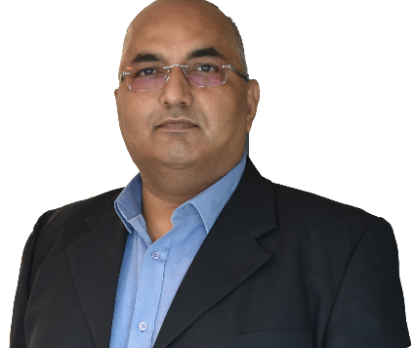
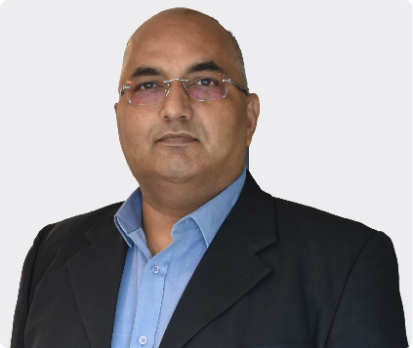
"abhineet changes"

Changed region(s): [[0.0, 0.0, 1.0, 1.0], [0.0581, 0.9483, 0.0872, 1.0]]

diff --git a/src/pages/operations/operations.tsx b/src/pages/operations/operations.tsx
@@ -31,6 +31,15 @@ const Operations = () => {
         });
       $(".readMore-para").hide();
     }
+
+    var hideMore = $('<div class="text-start seeMore mb-4">Read More</div>');
+    $(".hide-text").children().nextAll("p").hide();
+    hideMore.click(function () {
+      $(this).prev().children().nextAll("p").toggle();
+      $(this).html() == "Read More" ? $(this).html("Read Less") : $(this).html("Read More");
+    });
+    $(".hide-text").after(hideMore);
+
     //to hide more text in mobile view
     if (window.innerWidth <= 768) {
       var readMore = $('<div class="text-start wwr-read-more text-decoration-underline mb-4">Read More</div>');
@@ -73,18 +82,16 @@ const Operations = () => {
               <h3 className="d-md-block d-none">
                 <strong>Operations at KCL</strong>
               </h3>
-              <p className="my-4 operations-text">
-                Copper smelting is a metallurgical process that transforms copper concentrates into refined metal. KCL has adopted flash smelting and pierce smith converting technology wherein the copper concentrates are converted into molten anodes. The molten copper is then tapped and cast into shapes like ingots or billets.
-                <br />
-                <br />
-                Refining follows smelting to enhance copper purity. In electrolytic refining, copper is dissolved from impure copper anodes and then electroplated onto pure cathodes. This process yields high-grade copper with minimal impurities.
-              </p>
+              <div className="hide-text">
+                <p className="my-4">Copper smelting is a metallurgical process that transforms copper concentrates into refined metal. KCL has adopted flash smelting and pierce smith converting technology wherein the copper concentrates are converted into molten anodes. The molten copper is then tapped and cast into shapes like ingots or billets.</p>
+                <p>Refining follows smelting to enhance copper purity. In electrolytic refining, copper is dissolved from impure copper anodes and then electroplated onto pure cathodes. This process yields high-grade copper with minimal impurities.</p>
+              </div>
             </div>
             <div className="col-md-4 order-md-2 order-1">
               <h3 className="d-md-none d-block">
                 <strong>Operations at KCL</strong>
               </h3>
-              <img className="rounded w-100 my-4" src={operations} alt="" />
+              <img className="rounded w-100 my-md-0 my-4" src={operations} alt="" />
             </div>
           </div>
 
@@ -110,8 +117,8 @@ const Operations = () => {
                     <div className="col-md-9 ps-md-5">
                       <div className="readMore-para">
                         <p>The copper concentrates are fed through the flash smelting furnace with oxygen-enriched air. In the furnace, the concentrates are instantly oxidized, after which they melt and separate by their own reaction heat into copper matte with a grade of 60-65% and slag consisting of iron oxide, silica, and other compounds.</p>
-                        <p>Reaction in the flash smelting furnace</p>
-                        <h6>CuFeS2 + SiO2 + O2 → Cu2S・FeS + 2FeO・SiO2 + SO2 + Reaction heat</h6>
+                        {/* <p>Reaction in the flash smelting furnace</p>
+                        <h6>CuFeS2 + SiO2 + O2 → Cu2S・FeS + 2FeO・SiO2 + SO2 + Reaction heat</h6> */}
                       </div>
                     </div>
                   </div>
@@ -140,8 +147,8 @@ const Operations = () => {
                     <div className="col-md-9 ps-md-5">
                       <div className="readMore-para">
                         <p>The matte produced by the flash smelting furnace is transferred to the converter furnace. Oxygen-enriched air is blown into the converter furnace to further oxidize the matte, creating blister copper with a grade of approximately 98-99%.</p>
-                        <p>Reaction in the flash smelting furnace</p>
-                        <h6>Cu2S・FeS + SiO2 + O2 → Cu + 2FeO・SiO2 + SO2 + Reaction heat</h6>
+                        {/* <p>Reaction in the flash smelting furnace</p>
+                        <h6>Cu2S・FeS + SiO2 + O2 → Cu + 2FeO・SiO2 + SO2 + Reaction heat</h6> */}
                       </div>
                     </div>
                   </div>
@@ -182,7 +189,6 @@ const Operations = () => {
               </div>
             </div>
 
-
             <div className="accordion-item">
               <h2 className="accordion-header" id="flush-heading-5">
                 <button className="accordion-button collapsed" type="button" data-bs-toggle="collapse" data-bs-target="#flush-collapse-5" aria-expanded="false" aria-controls="flush-collapse-5">
@@ -217,7 +223,7 @@ const Operations = () => {
                   <div className="circle">
                     <h4>05</h4>
                   </div>
-                  <h5>Continuous catalyst regeneration (CCR)</h5>
+                  <h5>Continuous Cast Rod (CCR)</h5>
                 </button>
               </h2>
               <div id="flush-collapse-6" className="accordion-collapse collapse" aria-labelledby="flush-heading-6" data-bs-parent="#accordionFlushExample">
@@ -245,7 +251,7 @@ const Operations = () => {
                   <div className="circle">
                     <h4>06</h4>
                   </div>
-                  <h5>Sulfuric Acid plant</h5>
+                  <h5>Sulphuric Acid plant</h5>
                 </button>
               </h2>
               <div id="flush-collapse-7" className="accordion-collapse collapse" aria-labelledby="flush-heading-7" data-bs-parent="#accordionFlushExample">
@@ -273,7 +279,7 @@ const Operations = () => {
                   <div className="circle">
                     <h4>07</h4>
                   </div>
-                  <h5>Slime treatment plant</h5>
+                  <h5>Precious Metals Recovery</h5>
                 </button>
               </h2>
               <div id="flush-collapse-8" className="accordion-collapse collapse" aria-labelledby="flush-heading-8" data-bs-parent="#accordionFlushExample">

diff --git a/src/pages/whoweare/whoweare.tsx b/src/pages/whoweare/whoweare.tsx
@@ -6,7 +6,7 @@ import mission from "../../assets/images/Bitmap.png";
 import vision from "../../assets/images/Mask group.png";
 import values from "../../assets/images/Mask group-1.png";
 import graybox from "../../assets/images/ceoImage.png";
-import ceoImage from "../../assets/images/ceoImage.png";
+import ceoImage from "../../assets/images/ceo-white.png";
 
 import vinay from "../../assets/images/vinay.png";
 import jeet from "../../assets/images/jeet.png";
@@ -38,7 +38,7 @@ const Whoweare = () => {
       $(".wwr-list").after(readMore);
     }
 
-    if (true) {
+    if (window.innerWidth <= 786) {
       $(".readMore-para")
         .find("p:first")
         .each(function (index, element) {
@@ -54,6 +54,13 @@ const Whoweare = () => {
         });
       $(".readMore-para").hide();
     }
+    var hideMore = $('<div class="text-start seeMore mb-4">Read More</div>');
+    $(".hide-text").children().nextAll("p").hide();
+    hideMore.click(function () {
+      $(this).prev().children().nextAll("p").toggle();
+      $(this).html() == "Read More" ? $(this).html("Read Less") : $(this).html("Read More");
+    });
+    $(".hide-text").after(hideMore);
   }, []);
 
   return (
@@ -63,8 +70,10 @@ const Whoweare = () => {
         <div className="aboutKCL-section d-flex align-items-center justify-content-center">
           <div className="container ">
             <h2 className="all-headings">About KCL</h2>
+            <div className="hide-text">
             <p className="all-paragraphs">As a part of the diversified Adani Group, Kutch Copper Ltd. (KCL), is a greenfield copper custom smelting and refining complex with an annual capacity of 0.5 million tonne in Phase-1 and planned additional capacity of 0.5 million tonne in Phase-2, totaling to an annual capacity of 1 million tonne making it the largest custom smelter at a single location in the world.</p>
             <p>With a vision to make India self-reliant, KCL is strategically positioned to meet the nation's copper demand. Mundra, located on the northern shores of the Gulf of Kutch, Gujarat has proven to be a strategic location for Adani Group. With impeccable connectivity via sea, roads and railways, Mundra stands as an ideal hub for diverse business operations ensuring seamless movement of goods and an efficient supply chain. The power required forKCL will be sourced through MPSEZ Utilities, Adani Power, Mundra and the operational water requirement will be fulfilled through sea water de-salination of APSEZ, Mundra. The synergy between Adani's diverse businesses transforms Mundra into a pivotal location that aligns with the group’s multifaceted business needs, making it a cornerstone for the company's strategic endeavours.</p>
+            </div>
             {/* <a href="" className="show-more-button-sustainibility">
               Read More
             </a> */}
@@ -102,7 +111,7 @@ const Whoweare = () => {
         <div className="container  py-5">
           <h1 className="d-md-none d-block mt-4 mb-4">Message From MD</h1>
           <div className="row Chaimanrows">
-            <div className="col-md-6 px-md-5 ChaimanContentSection justify-content-around">
+            <div className="col-md-6 pe-md-5 ChaimanContentSection justify-content-around">
               <div className="ChaimanTopContentData">
                 <h2 className="d-md-block d-none mb-4">Message From MD</h2>
                 <p>Our entry in the metal business with Kutch Copper, is on the lines of the Government of India's vision of resource security of critical minerals and the drive for Make in India to reduce import dependency on copper. India’s percapita copper consumption of approximately 0.6 Kg, significantly lower than the global average of 3.2 Kg per capita. However, due to India's focus on clean energy systems, the increasing usage of electric vehicles, and a range of related applications, the demand for copper is expected to double by 2030</p>
@@ -120,7 +129,7 @@ const Whoweare = () => {
               <h4>Vinay Prakash</h4>
               <span className="ChaimanAdaniGroup">MD, KCL & CEO, Natural Resources</span>
             </div>
-            <div className="col-md-6 px-md-5 mb-2 d-md-flex justify-content-end">
+            <div className="col-md-6 ps-md-5 mb-2 d-md-flex justify-content-end">
               <img src={ceoImage} alt="" className="Chairman-img w-75 rounded" />
             </div>
           </div>

diff --git a/src/pages/home/home.tsx b/src/pages/home/home.tsx
@@ -18,7 +18,7 @@ import sustainability from "../../assets/images/Content Section V20.png";
 import sustainabilityMobile from "../../assets/images/sustainabilityMobile.png";
 import { Link, useNavigate } from "react-router-dom";
 import graybox from "../../assets/images/graybox.png";
-import chairmanImage from "../../assets/images/chairman-image.jpg";
+import chairmanImage from "../../assets/images/chairman-white.png";
 
 import slide1 from "../../assets/images/banner-slide.png";
 import slide2 from "../../assets/images/slide-3.png";
@@ -56,7 +56,6 @@ const Home = () => {
                 <h1 className="text-white bann-txt col-md-10">Empowering Industries, Building a Self-Reliant Nation</h1>
               </div>
             </div>
-
             <div>
               <div className="banner-img-div">
                 <img className="card-img" src={slide2} alt="Placeholder Image" />
@@ -155,7 +154,7 @@ const Home = () => {
           <div className="row WhatWeDoData justify-content-center">
             <div className="contentsection col-md-8 mb-3">
               <h1 className="mb-3 section-heading">Our Business</h1>
-              <p className="text-center font-500">With a vision to make India self-reliant, Kutch Copper is strategically positioned to meet the nation’s copper demand.</p>
+              <p className="text-center">With a vision to make India self-reliant, Kutch Copper is strategically positioned to meet the nation’s copper demand.</p>
             </div>
             <div className="row px-0 WhatWeDoImage no-gutters">
               <div className="col-md-6 WhatWeDoImages mb-4">

diff --git a/src/assets/css/style.css b/src/assets/css/style.css
@@ -14,7 +14,7 @@ body {
   left: 50%;
   transform: translate(-50%, 0px);
   max-height: 670px;
-  max-width: 1700px;
+  max-width: 1800px;
 }
 .owl-carousel .owl-dots {
   position: absolute;
@@ -107,7 +107,7 @@ body {
 /* =========================================banner others =================================*/
 .banner-others .banner-box {
   max-height: 452px;
-  max-width: 1440px;
+  width: 1800px;
 }
 .banner-crumb a {
   color: white;
@@ -121,7 +121,6 @@ body {
   position: absolute;
   z-index: 1;
   top: 1rem;
-  left: 5rem;
   display: flex;
   flex-direction: row;
   color: white;
@@ -152,9 +151,6 @@ body {
   font-weight: 700;
   font-size: 48px !important;
   line-height: 40px;
-}
-.font-500 {
-  font-weight: 500;
 }
 .home_btn {
   padding-inline: 42px !important;
@@ -238,6 +234,12 @@ body {
   font-size: 28px;
   font-weight: 700;
   line-height: 32.18px;
+}
+.ChaimanTopContentData h2{
+  font-size: 28px;
+  font-weight: 700;
+  line-height: 40px;
+  color: #333333;
 }
 
 @media (max-width: 767px) {
@@ -710,7 +712,7 @@ p {
 .operations-container p {
   color: #222222;
   font-size: 16px;
-  font-weight: 500;
+  font-weight: 400;
   line-height: 24px;
 }
 .operations-container .operations-rm {
@@ -744,6 +746,14 @@ p {
 .operations-container .horizontal-line {
   padding-left: 4rem;
 }
+.operations-container .horizontal-line hr{
+  color: #E6E6E6 !important;
+  opacity: unset !important;
+}
+.operations-container .accordion-item:nth-last-child(2) .horizontal-line hr{
+ display: none;
+}
+
 .operations-container .accordion-body li {
   margin-bottom: 1rem;
 }

diff --git a/src/shared/banner/banner.tsx b/src/shared/banner/banner.tsx
@@ -5,10 +5,14 @@ const Banner = (props: any) => {
   return (
     <section className="banner banner-others d-flex justify-content-center">
       <div className="position-relative banner-box">
-        <div className="banner-crumb d-md-flex d-none">
-          <Link to={"/"}><p>Home</p></Link>
-          <p>&nbsp;/&nbsp;</p>
-          <p>{props.crumb}</p>
+        <div className="container position-relative">
+          <div className="banner-crumb d-md-flex d-none">
+            <Link to={"/"}>
+              <p>Home</p>
+            </Link>
+            <p>&nbsp;/&nbsp;</p>
+            <p>{props.crumb}</p>
+          </div>
         </div>
         <img className="card-img banner-image h-100" src={props.bannerImg} alt="Placeholder Image" />
         <div className="card-img-overlay w-100 row align-items-center justify-content-center">

diff --git a/src/assets/css/header.css b/src/assets/css/header.css
@@ -17,7 +17,7 @@
     }
 }
 .hamburger {
-    padding: 10px;
+    padding: 10px 10px 10px 0px;
 }
 .menu-hamb{
     margin-right: 10px;
